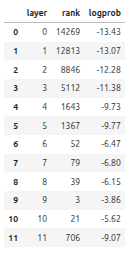
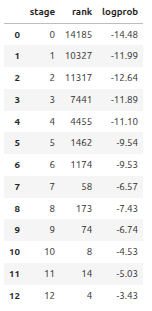
writing: revise §3 (correct logit-lens endpoint, add tuned lens) + review fixes
§3 was wrong: the logit-lens final-layer rank can't be 706 — ln_final · W_U on
the last residual is the model's output by construction, so it's rank 92 (§1).
Rerun with the corrected pipeline:

- Logit lens (26-stage plot) is now the main line: buried ~1e4 → internal
  minimum rank ~13 at 9_mid → final_post = rank 92. The old "rank 3 at layer 9"
  and the phantom 706 were artifacts of a coarse one-read-per-block pass; dropped.
- Add a trained tuned lens (13 stages, ends at rank 4) as an independent
  confirmation: the two lenses agree on trajectory, not absolute level.

Also apply the rest of the review: §2 param table uses nominal totals (cfg.n_params
in the note); §5 "uniform" softened to "nearly flat" with a saturation caveat;
conclusion drops the colon-then-payoff; MacLeish citation fixed to "A Note on
Alexis Saint-Léger Léger" with the lama passage attributed to Saint-John Perse.

Changed region(s): [[0.0296, 0.0, 0.9481, 0.9688]]

diff --git a/_writing/structure-vs-recall-gpt2.md b/_writing/structure-vs-recall-gpt2.md
@@ -29,7 +29,7 @@ I think that reading is a trap. This post is about the tools I need to check a r
 and what they show when I apply them here.
 
 Here is the kind of trap I mean, and the "very delectable" gets clarified. 
-From Archibald MacLeish, "A note on Alexis Saint Leger":
+Saint-John Perse, quoted in Archibald MacLeish's "A Note on Alexis Saint-Léger Léger" (*Poetry*, 1942):
 
 > On the threshold of a Mongol hut, in the middle of the Gobi desert, just as I was remounting my horse, 
 > someone translated to me the beautiful guttural sentence of a migrant lama of the Great Red Sect: 
@@ -156,12 +156,12 @@ This is the load-bearing experiment for the whole framing. Run the same measurem
 
 | model | params | rank of ` Paris` | log-prob | argmax? |
 |---|---|---|---|---|
-| `gpt2`        | 85M    | 92 | −6.42 | no |
-| `gpt2-medium` | 302M   | 3  | −3.71 | no |
-| `gpt2-large`  | 708M   | 54 | −5.93 | no |
-| `gpt2-xl`     | 1.475B | 2  | −3.08 | no |
+| `gpt2`        | 124M | 92 | −6.42 | no |
+| `gpt2-medium` | 355M | 3  | −3.71 | no |
+| `gpt2-large`  | 774M | 54 | −5.93 | no |
+| `gpt2-xl`     | 1.5B | 2  | −3.08 | no |
 
-<small>(params are the block / non-embedding counts reported by `cfg.n_params`.)</small>
+<small>(Nominal totals, matching the first mention above. `cfg.n_params` reports the lower non-embedding counts — 85M / 302M / 708M / 1.475B — which is what the run printed.)</small>
 
 Two things break the clean capacity-limited story. First, the curve is non-monotonic: `gpt2-medium` already pulls ` Paris` to rank 3, but `gpt2-large` regresses to 54 before `gpt2-xl` recovers to rank 2. Second, and more telling, the predicate-nominative frame keeps a *generic* continuation on top at **every** scale — even gpt2-xl puts ` Paris` second, never first. Scale clearly sharpens recall (rank 92 → single digits; log-prob −6.4 → −3.1), but it does not, on its own, overturn the structural prior of the `…is ___` slot. That shifts weight toward **frame-sensitivity and data-dilution** over raw capacity — precisely what the frame swap (4) and activation patching (5) are built to isolate.
 
@@ -176,23 +176,26 @@ Apply the logit lens (nostalgebraist) or, better, a tuned lens (Belrose et al., 
 
 *Prediction:* in the larger models the ` Paris` logit jumps at specific late mid-layer MLPs, consistent with the ROME localization; in 124M the promotion may never cross the generic-continuation mass. Pinning the layer of promotion in medium/large and showing the corresponding step is weak-or-absent in small is the within-family version of the scale argument.
 
-*Result (gpt2 small).* The promotion happens — and then it's undone. Reading the logit lens layer by layer, ` Paris` is buried early (rank ~14 000 at layer 0), holds high through the first third, then is promoted sharply across the mid-to-late blocks, bottoming out at **rank 3 at layer 9**. The last two layers push it back down, ending at rank 706:
-
-| layer | rank | log-prob | | layer | rank | log-prob |
-|---|---|---|---|---|---|---|
-| 0 | 14 209 | −13.43 | | 6 | 52 | −6.47 |
-| 1 | 12 813 | −13.07 | | 7 | 79 | −6.80 |
-| 2 | 8 846  | −12.28 | | 8 | 39 | −6.15 |
-| 3 | 5 112  | −11.38 | | 9 | **3** | **−3.86** |
-| 4 | 1 643  | −9.73  | | 10 | 21 | −5.62 |
-| 5 | 1 367  | −9.77  | | 11 | 706 | −9.07 |
-
-The big jump is at layer 6 (rank 1 367 → 52), with the representation sharpening to near-top by layer 9 — a specific mid-to-late-layer write, exactly the kind of localization ROME predicts. So the cautious half of the prediction is wrong: the recall machinery is present even at 124M, and internally ` Paris` very nearly wins. What it *can't* do is survive the output: the final layers, committing to the predicate-nominative continuation, demote the name. (The lens is an approximation — its last-layer rank of 706 is its own read of the final residual, while the true output distribution puts ` Paris` at rank 92, §1 — but the arc is unambiguous: an internal peak near the top, then suppression toward the surface.) This is the within-model echo of the frame story: the name is computed and then gated out by the construction.
+*Result (gpt2 small).* The promotion happens — and then it settles, it doesn't collapse. Reading the logit lens across all 26 stages (`0_pre … final_post`), ` Paris` stays buried through the early blocks (rank ~10⁴), is promoted from the middle of the stack, reaches an **internal minimum of rank ≈ 13 around `9_mid`**, and then eases back up to **`final_post` = rank 92**. Because the final-layer logit lens (`ln_final` then `W_U`, applied to the last residual) *is* the model's output, that 92 is exactly the §1 number — asserted in code, not a lens estimate.
 
 <figure>
-  <img src="/assets/structure-vs-recall/section_3_logit-lens.png" alt="A single line plot, logit-lens rank of the ' Paris' token by layer on a log y-axis, across stages 0_pre through final_post for gpt2 small. The rank stays around 10^4 for the early layers, drops steeply from around layer 6, reaches a minimum near rank 3 around layer 9, then rebounds toward rank ~700 at the final stage.">
-  <figcaption>Logit-lens rank of the leading-space token <code>· Paris</code> by layer in gpt2 small (log axis). It is promoted from rank ~14 000 to a near-top <strong>rank 3 by layer 9</strong>, then demoted again by the final layers — present internally, gated out at the output.</figcaption>
+  <img src="/assets/structure-vs-recall/section_3_logit-lens.png" alt="A line plot, logit-lens rank of the ' Paris' token by stage on a log y-axis, across 26 stages from 0_pre to final_post for gpt2 small. The rank stays around 10^4 for the early stages, declines through the middle, drops steeply to an internal minimum near rank 13 around 9_mid, bumps up slightly, and the final_post stage settles around rank 10^2 — the model's true output rank of 92.">
+  <figcaption>Logit-lens rank of the leading-space token <code>· Paris</code> across 26 stages in gpt2 small (log axis). Promoted from rank ~10⁴ to an internal minimum of <strong>rank ≈ 13 around <code>9_mid</code></strong>, then easing back to <code>final_post</code> = rank 92, the model's true output (§1). Present internally, gated out at the surface.</figcaption>
 </figure>
+
+A trained **tuned lens** (Belrose et al., 2023) confirms the shape with an independent translator. Its 13 per-stage reads trace the same arc and end at **rank 4** (log-prob −3.43):
+
+| stage | rank | log-prob | | stage | rank | log-prob |
+|---|---|---|---|---|---|---|
+| 0 | 14 185 | −14.48 | | 7  | 58  | −6.57 |
+| 1 | 10 327 | −11.99 | | 8  | 173 | −7.43 |
+| 2 | 11 317 | −12.64 | | 9  | 74  | −6.74 |
+| 3 | 7 441  | −11.89 | | 10 | 10  | −4.53 |
+| 4 | 4 455  | −11.10 | | 11 | 5   | −5.03 |
+| 5 | 1 462  | −9.54  | | 12 | **4** | **−3.43** |
+| 6 | 1 174  | −9.53  | |    |     |       |
+
+The two lenses agree on the *trajectory* — buried, promoted mid-stack, then near-top — but not on the absolute *level*: the tuned lens closes at rank 4, the raw logit lens at 92. That divergence is the point. A tuned lens applies learned per-layer translators, so it *should* read the same final residual differently from the raw unembed, and here it does — the story no longer rests on a single lens's approximation. Either way the cautious half of the prediction is wrong: the recall machinery is present even at 124M, ` Paris` is sharply promoted mid-stack (the kind of late-layer write ROME localizes), and what it *can't* do is survive to the output — computed internally, then demoted toward the surface, gated out by the construction.
 
 ### 4. Frame-sensitivity sweep
 
@@ -232,14 +235,14 @@ patched = model.run_with_hooks(pn_frame,
 
 *Prediction:* patching from a Paris-surfacing frame flips, or sharply raises, ` Paris` in the predicate-nominative frame, and the effect concentrates in a small set of mid-to-late layers. This is what distinguishes "knowledge present but frame-gated" from "knowledge absent" — the difference the greedy trace alone can't see.
 
-*Result.* Patching the donor (appositive) frame's final-position `resid_post` into the predicate-nominative frame **flips ` Paris` to rank 0** (argmax), with Δ log-prob +5.17 over baseline. The flip half of the prediction holds outright. The *localization* half does not: the effect is essentially **uniform across all twelve layers** — patching at layer 0 helps as much as patching at layer 11.
+*Result.* Patching the donor (appositive) frame's final-position `resid_post` into the predicate-nominative frame **flips ` Paris` to rank 0** (argmax), with Δ log-prob +5.17 over baseline. The flip half of the prediction holds outright. The *localization* half does not: the effect is **high and nearly flat across all twelve layers** (≈ +5.17 at each) — patching at layer 0 helps about as much as patching at layer 11.
 
 <figure>
   <img src="/assets/structure-vs-recall/section_5_per-layer-patch-effect.png" alt="A bar chart, per-layer patch effect. For each patched layer 0 through 11 (resid_post at the final position), the bar shows the change in log-prob of ' Paris' versus baseline. Every bar is the same height, about 5.17.">
   <figcaption>Patching the donor frame's final-position residual into the predicate-nominative frame, one layer at a time. Δ log-prob of ` Paris` is a flat ≈ +5.17 at every depth, and the argmax flips to ` Paris` in all cases.</figcaption>
 </figure>
 
-The flatness is itself a caveat: patching the *whole* final-position residual carries enough of the donor state to flip the readout no matter where it's injected, so this patch localizes nothing. Pinning the responsible step needs finer interventions — individual components (specific MLPs / attention heads) rather than the full `resid_post` — plus a negative control (patching from a *non*-Paris frame should leave the rank unchanged). What this run does establish is the causal direction: the predicate-nominative state is one residual edit away from naming Paris.
+The flatness is itself a caveat: patching the *whole* final-position residual carries enough of the donor state to flip the readout no matter where it's injected — quite possibly saturating it — so this patch localizes nothing. Pinning the responsible step needs finer interventions — individual components (specific MLPs / attention heads) rather than the full `resid_post` — plus a negative control (patching from a *non*-Paris frame should leave the rank unchanged). What this run does establish is the causal direction: the predicate-nominative state is one residual edit away from naming Paris.
 
 ### 6. SAE feature analysis and causal suppression
 
@@ -316,7 +319,7 @@ The rhetorical statement — *"a small model follows structure instead of recall
 
 **Complicated: capacity is not the binding constraint.** The original framing implied a capacity story — ` Paris` would win once the model is big enough. It doesn't. From `gpt2` to `gpt2-xl` the rank improves but **non-monotonically, and never reaches the argmax even at 1.5B** (§2); the predicate-nominative frame keeps a generic continuation on top at every scale. The suppression is distributed across many features rather than a single clean circuit (§6), and it is not a France quirk — the bare capital is sub-argmax for all twelve countries tested, *never* the argmax (§7), with France→Paris among the harder cases. So the limitation lives partly in the **construction and the data** — the `…is ___` slot is appositive-dominated and `P(capital | "the capital of X is")` is soft in the training distribution — not in raw model size.
 
-That second half is the more interesting finding, and the one to lead with. The headline is not "small models can't recall." It is: *in this frame, at every scale, a structural-continuation prior outranks a present-but-soft factual signal — and the softness is as much in the data as in the model.*
+That second half is the more interesting finding, and the one to lead with. The headline is not "small models can't recall"; it is that in this frame, at every scale, a structural-continuation prior outranks a present-but-soft factual signal, and the softness is as much in the data as in the model.
 
 ### References
 
